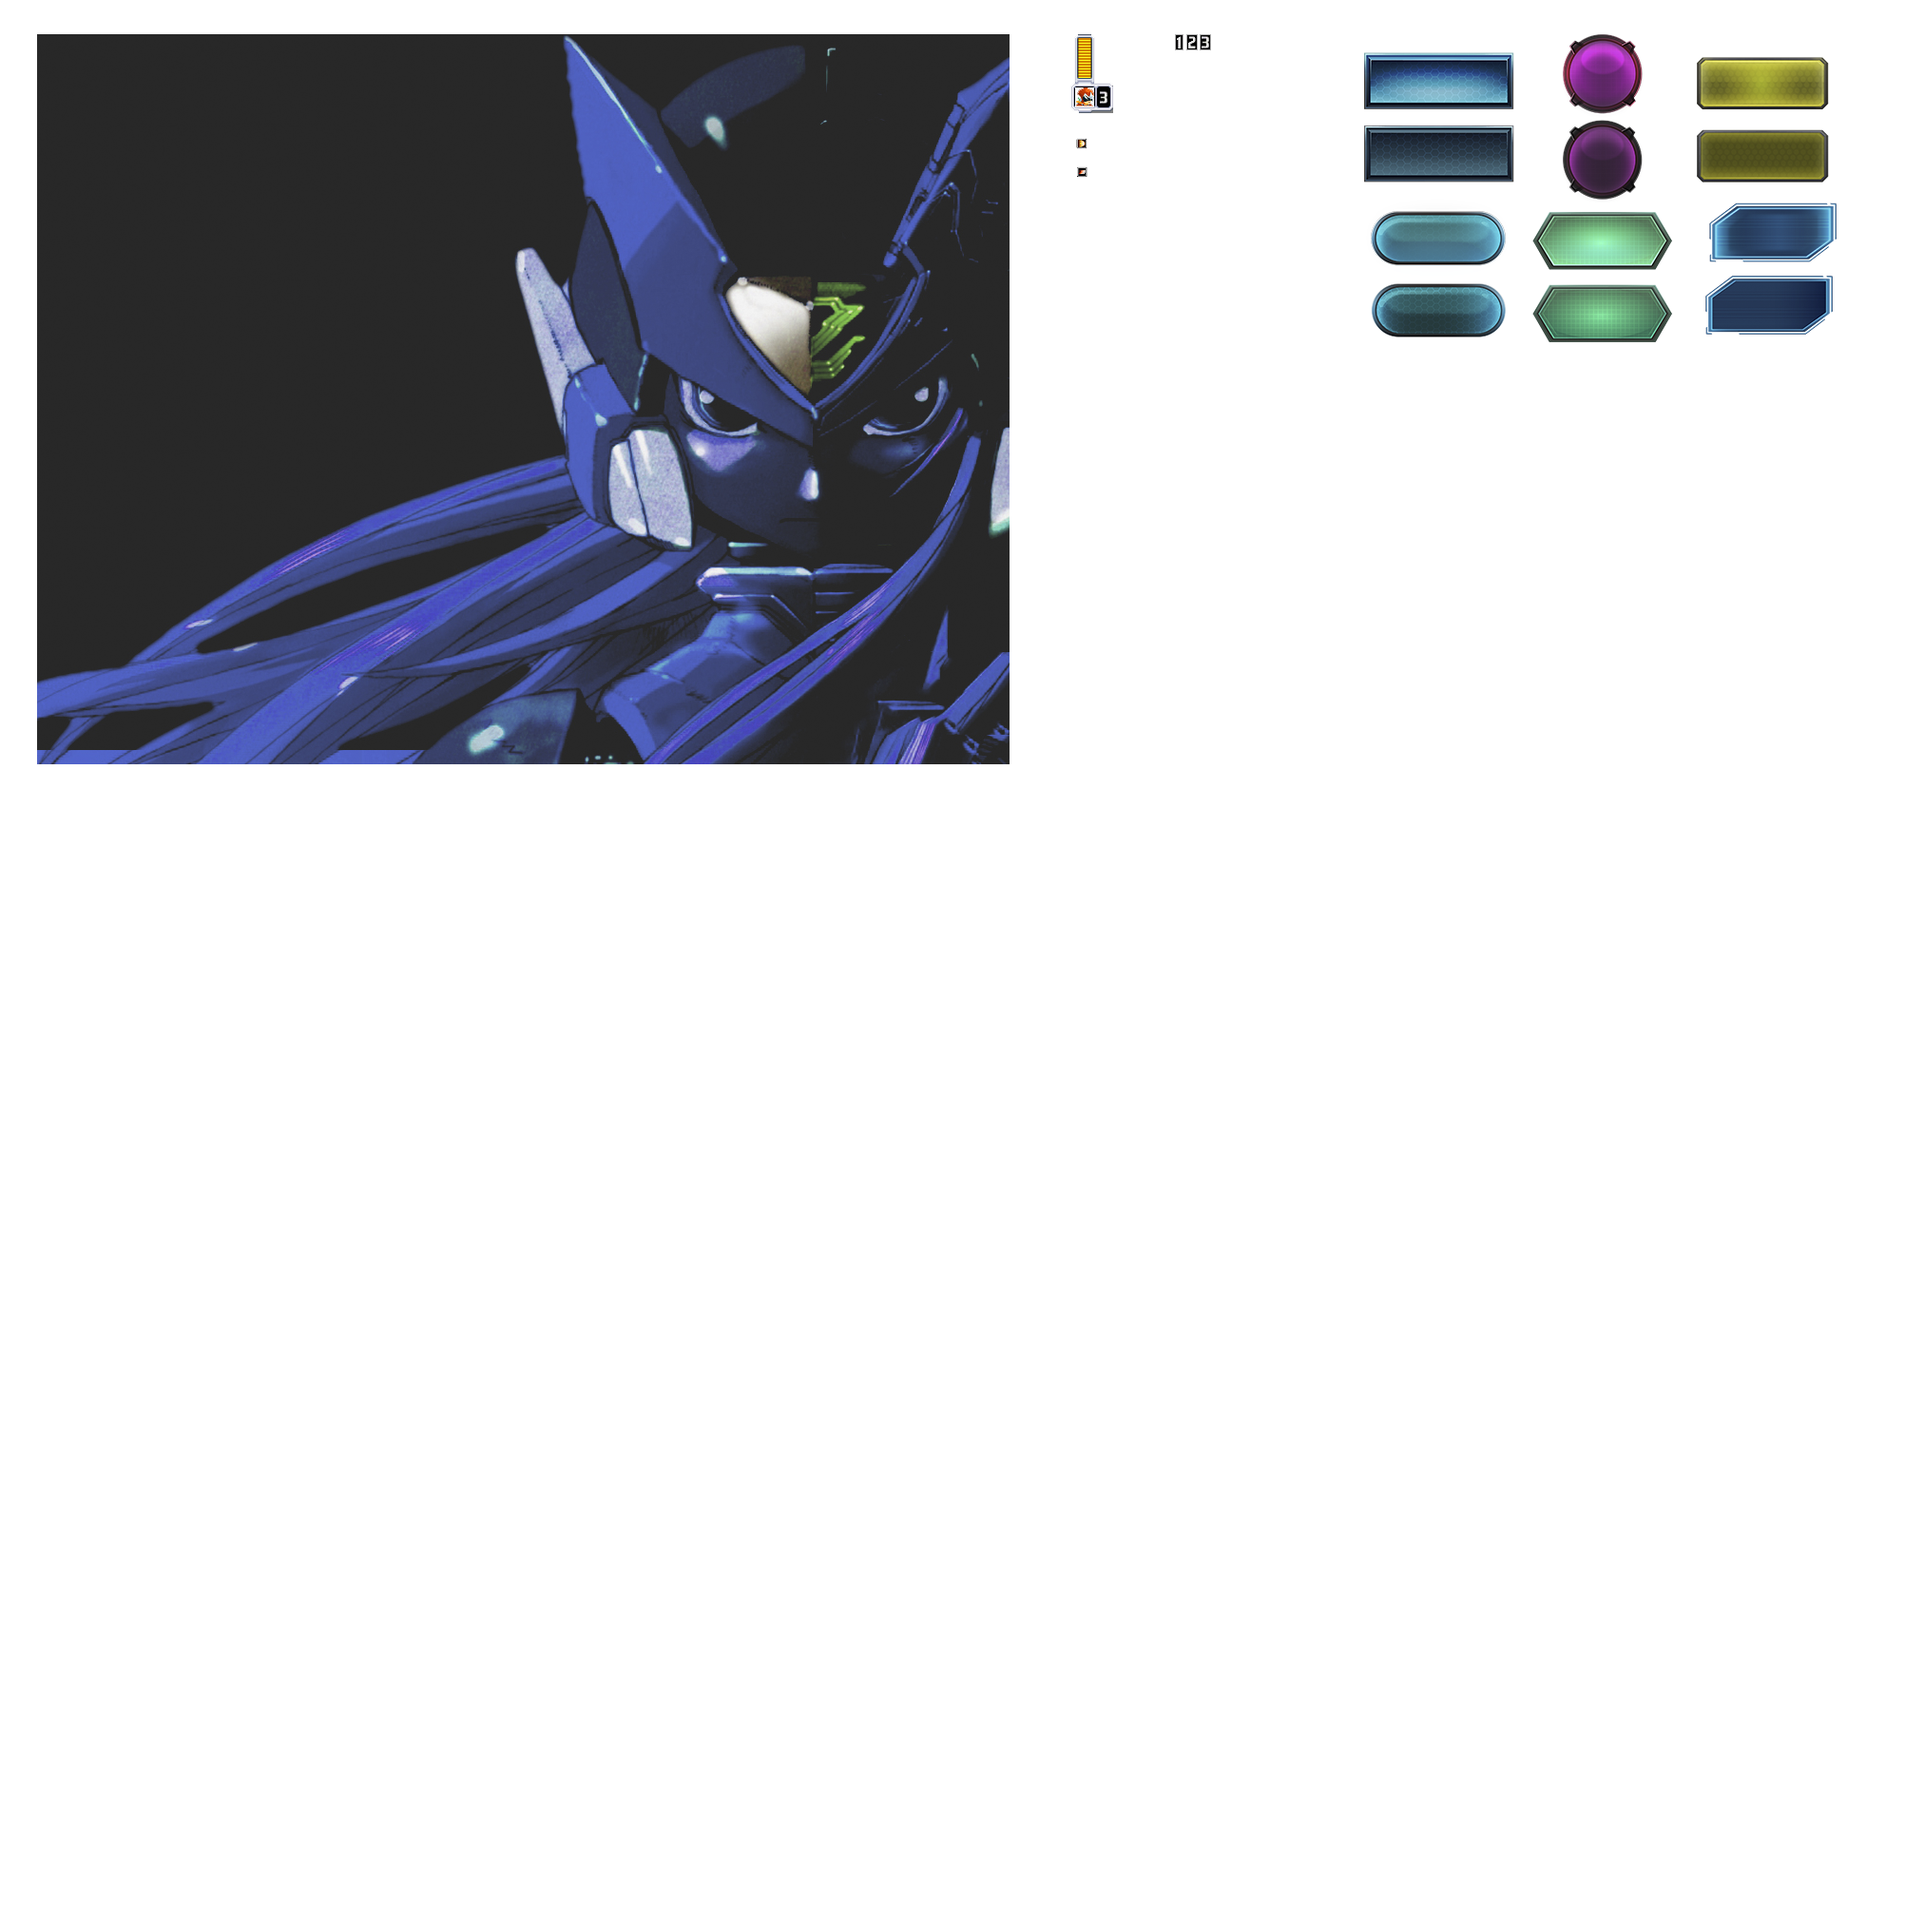
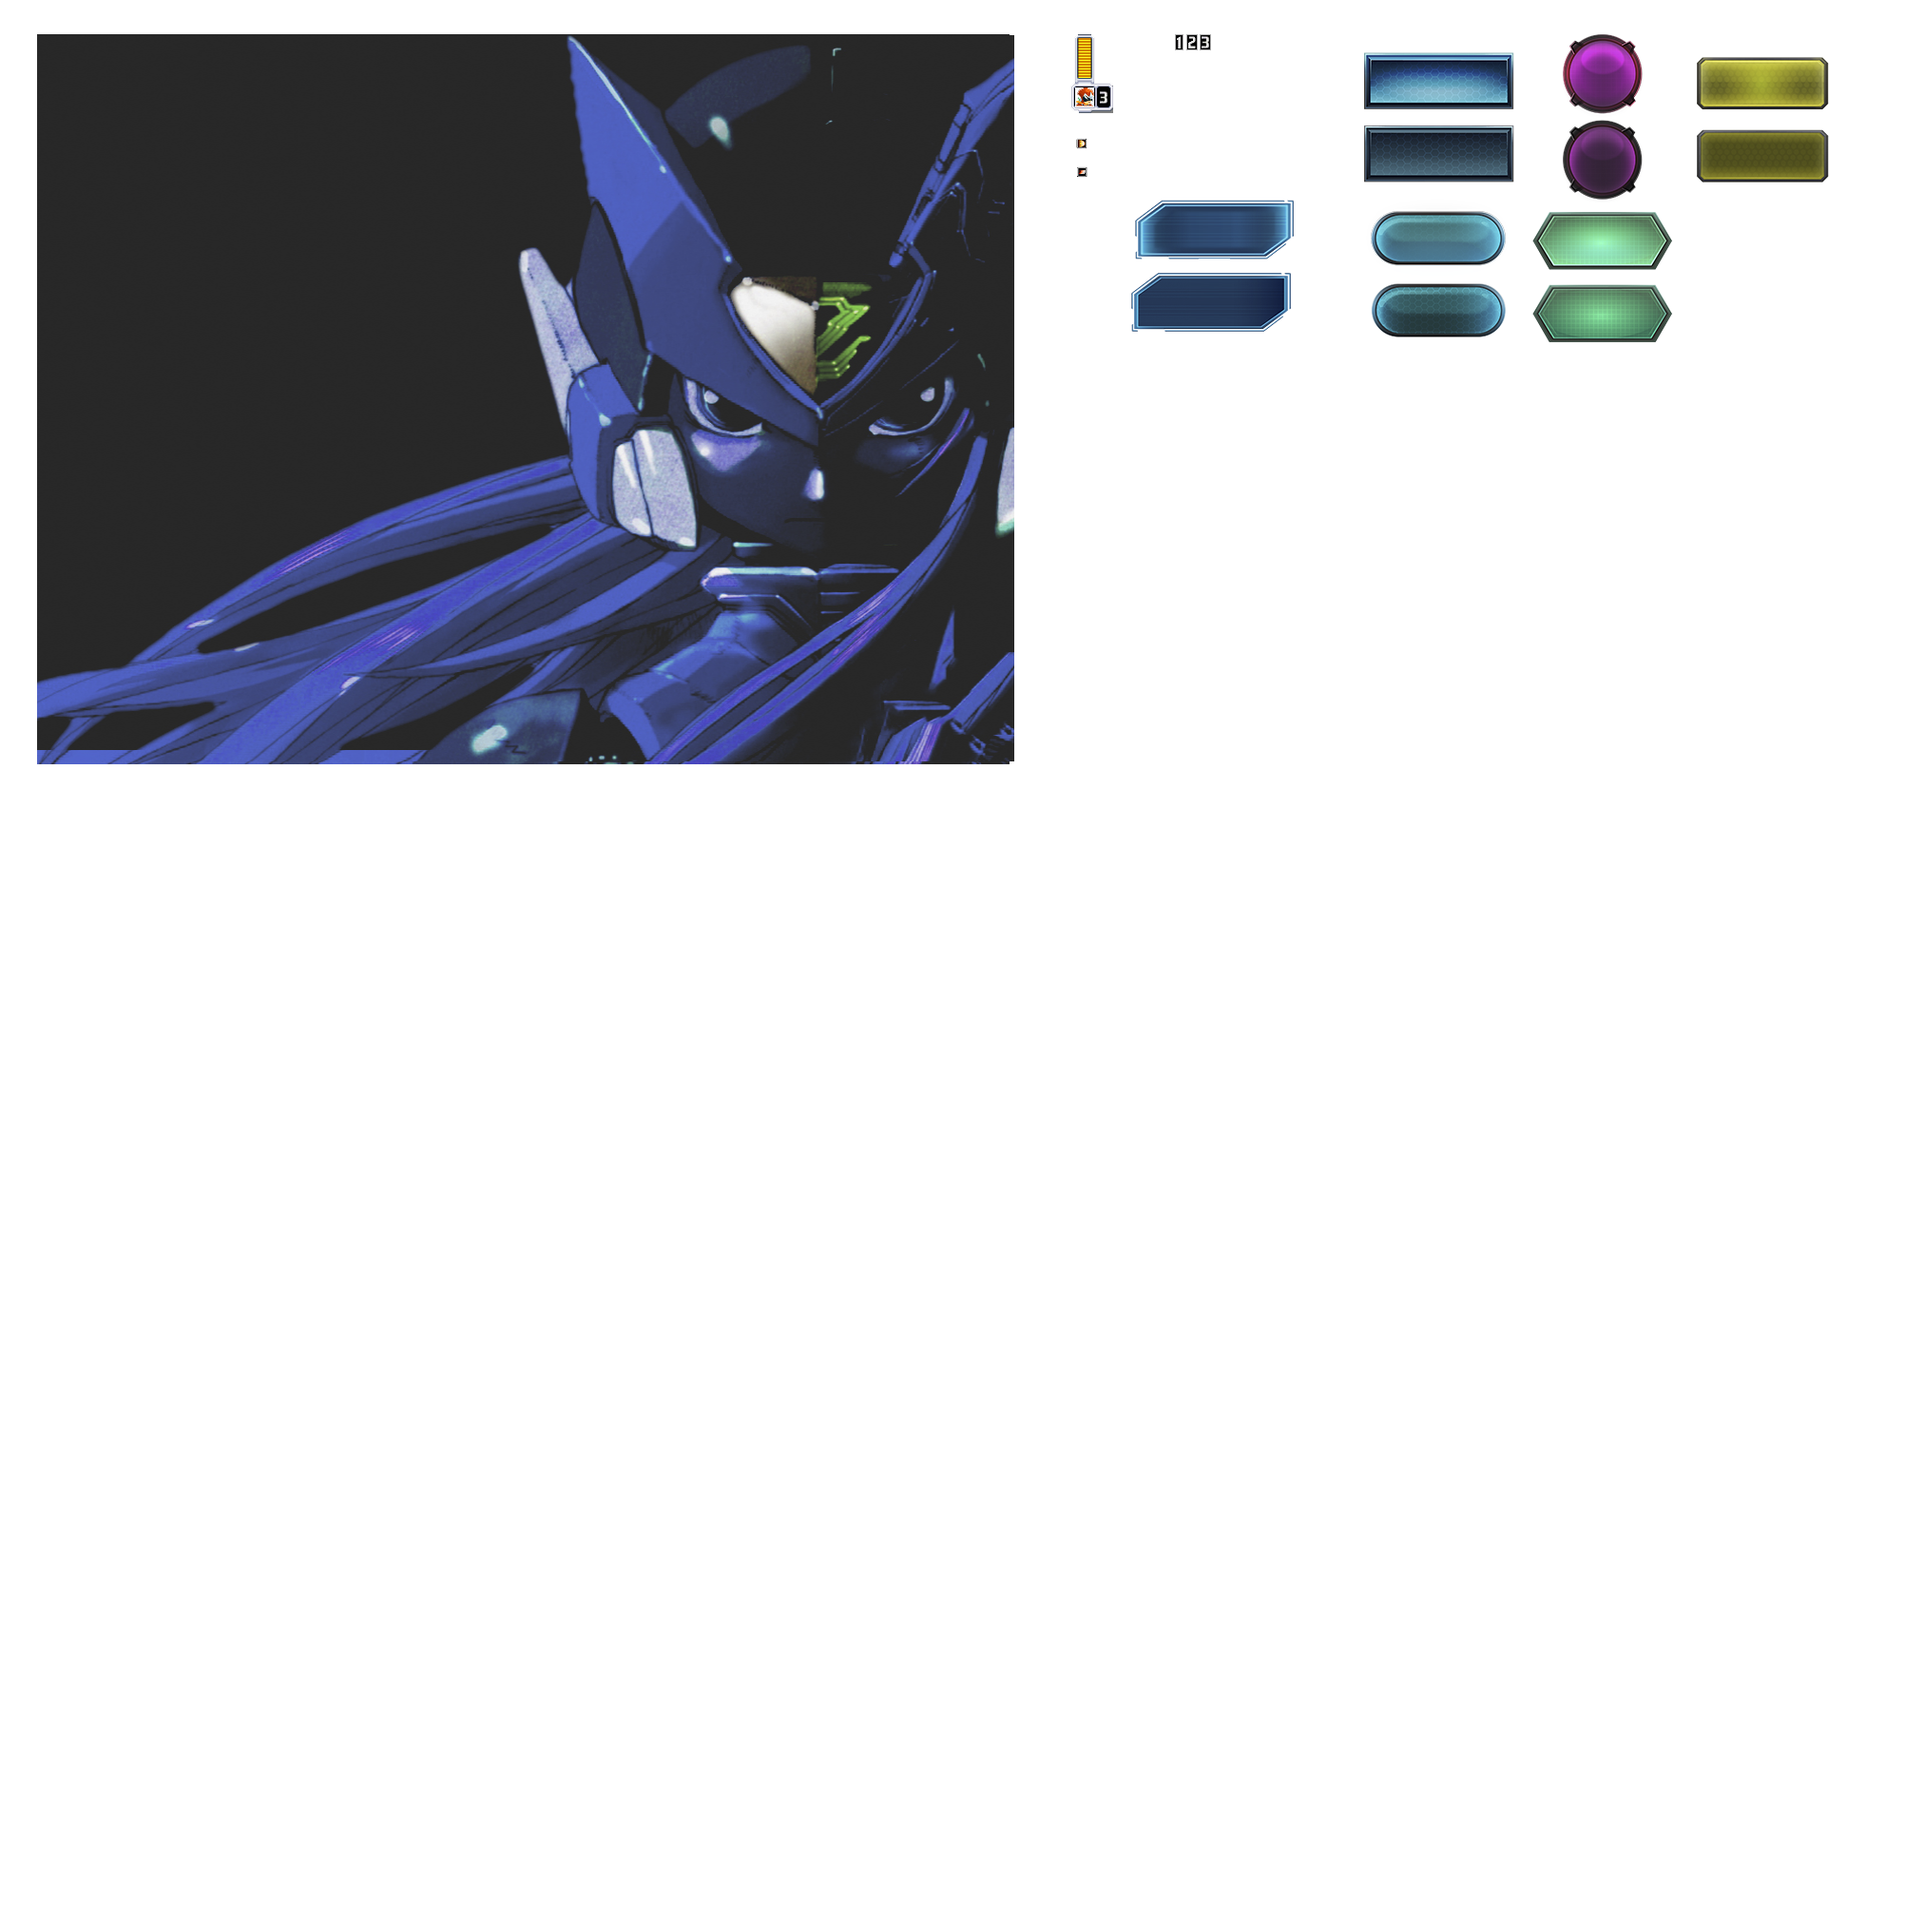
some changes atlas

diff --git a/DevGame/Motor2D/J1StartMenu.cpp b/DevGame/Motor2D/J1StartMenu.cpp
@@ -26,31 +26,31 @@ bool j1StartMenu::Start() {
 
 	//play button
 	SDL_Rect play_button_rect;
-	play_button_rect.x = 1798;
-	play_button_rect.y = 214;
-	play_button_rect.w = 134;
-	play_button_rect.h = 62;
+	play_button_rect.x = 1193;
+	play_button_rect.y = 210;
+	play_button_rect.w = 168;
+	play_button_rect.h = 63;
 
 	//settings_button
 	SDL_Rect settings_button_rect;
-	settings_button_rect.x = 1798;
-	settings_button_rect.y = 214;
-	settings_button_rect.w = 134;
-	settings_button_rect.h = 62;
+	settings_button_rect.x = 1193;
+	settings_button_rect.y = 210;
+	settings_button_rect.w = 168;
+	settings_button_rect.h = 63;
 
 	//exit button
 	SDL_Rect exit_button_rect;
-	exit_button_rect.x = 1798;
-	exit_button_rect.y = 214;
-	exit_button_rect.w = 134;
-	exit_button_rect.h = 62;
+	exit_button_rect.x = 1193;
+	exit_button_rect.y = 210;
+	exit_button_rect.w = 168;
+	exit_button_rect.h = 63;
 
 	//credits button
 	SDL_Rect credits_button_rect;
-	credits_button_rect.x = 1798;
-	credits_button_rect.y = 214;
-	credits_button_rect.w = 134;
-	credits_button_rect.h = 62;
+	credits_button_rect.x = 1193;
+	credits_button_rect.y = 210;
+	credits_button_rect.w = 168;
+	credits_button_rect.h = 63;
 
 	
 	SDL_Texture* texture;
@@ -69,13 +69,13 @@ bool j1StartMenu::Start() {
 
 
 	//test text
-	text_start = App->gui->CreateUILabel(240, 175, "START");
+	text_start = App->gui->CreateUILabel(260, 175, "START");
 	//test text
-	text_continue = App->gui->CreateUILabel(222, 245, "CONTINUE");
+	text_continue = App->gui->CreateUILabel(240, 245, "CONTINUE");
 	//test text
-	text_settings = App->gui->CreateUILabel(225, 310, "SETTINGS");
+	text_settings = App->gui->CreateUILabel(240, 315, "SETTINGS");
 	//test text
-	text_exit = App->gui->CreateUILabel(245, 380, "EXIT");
+	text_exit = App->gui->CreateUILabel(265, 385, "EXIT");
 
 	return true;
 }
